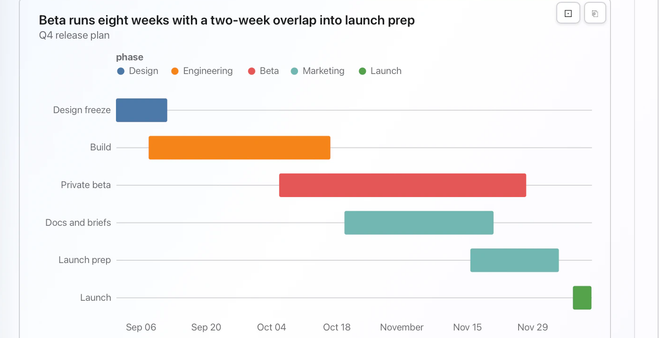
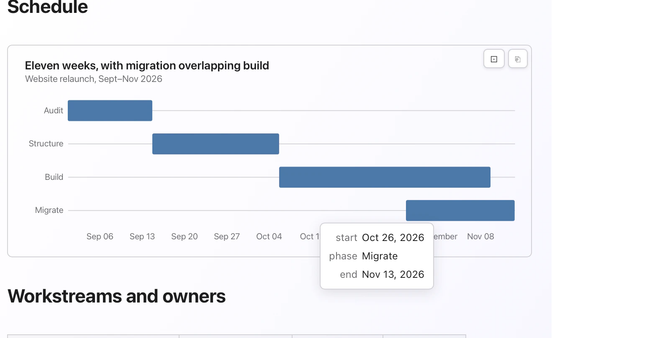
Re-cut the home and Flow social cards from the new hero frames
The two OG cards crop from their page's hero picture, so the hero swap
owed them a re-cut. The home card now shows the What Flow is using
readout beside the trip plan's bookings table, at 1:1 Retina text and
padded so the readout sits inside the visible band; the Flow card shows
the Schedule Gantt with its tooltip, scaled so the whole card fits the
band. Alt text and crop notes updated to match.

Verified on the rendered cards from the dev server and by the flagship
surface test (660x338 PNGs on disk).

diff --git a/src/data/og.ts b/src/data/og.ts
@@ -42,10 +42,11 @@ export const OG_PAGES: Record<string, OgPage> = {
     // The card carries the same promise as the launch homepage H1.
     title: 'You drive the work. Flow tunes AI to your needs.',
     seed: 'home',
-    alt: 'The phases of a project plan drawn as a flowchart inside an Orionfold Flow document, from audit to launch, with the risk that blocks the build.',
-    // Cut from the release-build Project Plan capture (G-120, build 1255) onto
-    // the Phases flowchart, padded on the right so the whole diagram sits inside
-    // the visible left 540px band, then halved to 660x338.
+    alt: 'The What Flow is using readout open in Orionfold Flow beside a trip plan: memory, GPU, and the Flow row, then tokens and spend this session and all time, all zero and $0.00.',
+    // Cut 1:1 from the installed-1382 home hero (first-launch-home-hero-welcome,
+    // 2026-08-27): the readout popover over the trip plan's Booked table, padded
+    // on the right so the popover sits inside the visible left 540px band, then
+    // halved to 660x338 so the Retina text lands at 1:1.
     screenshot: 'src/assets/flow/og-home-shot-guide.png',
     light: true,
   },
@@ -182,10 +183,10 @@ export const OG_PAGES: Record<string, OgPage> = {
     // the canonical overview instead of reopening the old charts-only wedge.
     title: 'Conduct useful work. Flow refines. You approve.',
     seed: 'flow',
-    alt: 'A Gantt chart drawn inside an Orionfold Flow document: five coloured phase bars from design freeze to launch across a September to November timeline, with its title and source line.',
-    // Cropped from the /flow/ hero picture (the release-build Visualization
-    // Gallery capture) onto the Gantt card, halved to 660x338 so the Retina
-    // text lands at 1:1, the whole card inside the visible left 540px band.
+    alt: 'The Schedule Gantt chart drawn inside an Orionfold Flow project plan: audit, structure, build and migrate bars across September to November, with the Migrate tooltip open.',
+    // Cut from the installed-1382 /flow/ hero (first-launch-flow-hero-project,
+    // 2026-08-27): the Schedule card with its tooltip, scaled to 0.42 and padded
+    // on the right so the WHOLE card sits inside the visible left 540px band.
     screenshot: 'src/assets/flow/og-flow-shot-charts.png',
     light: true,
   },
